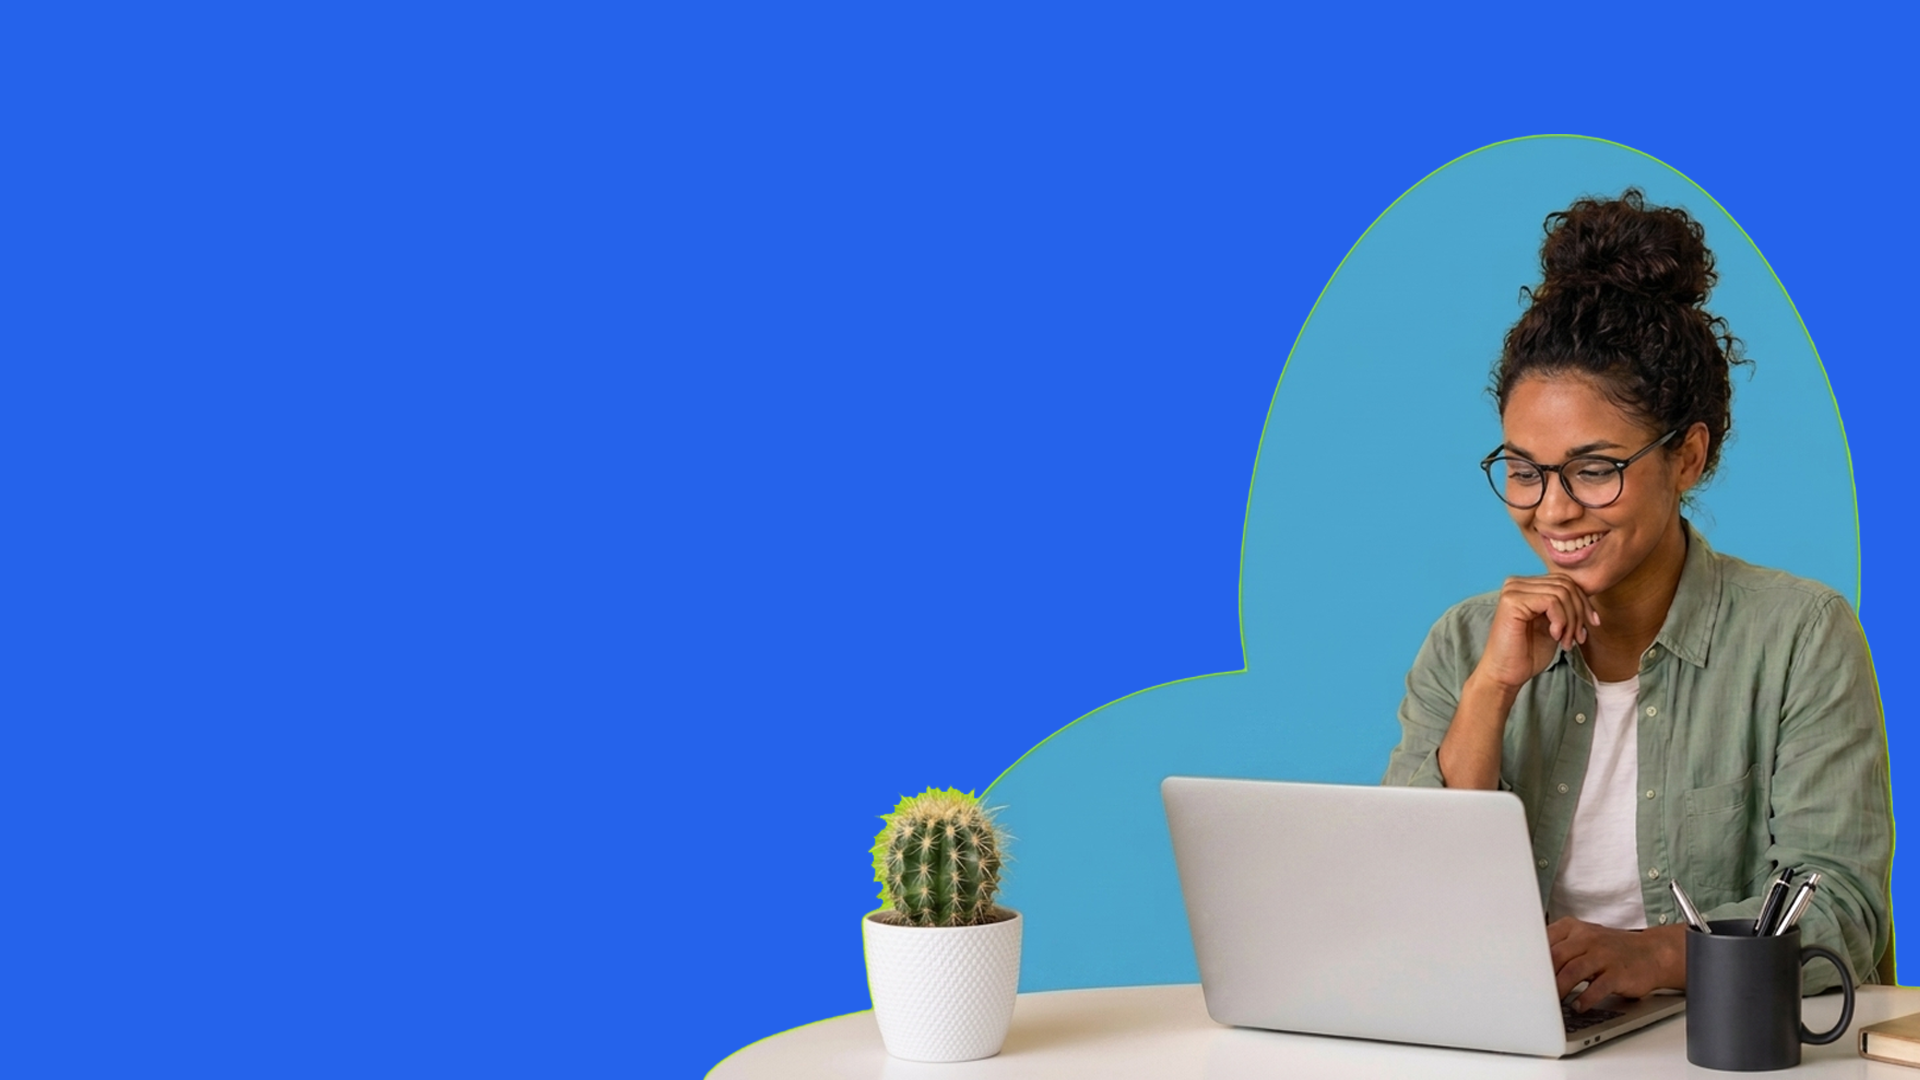
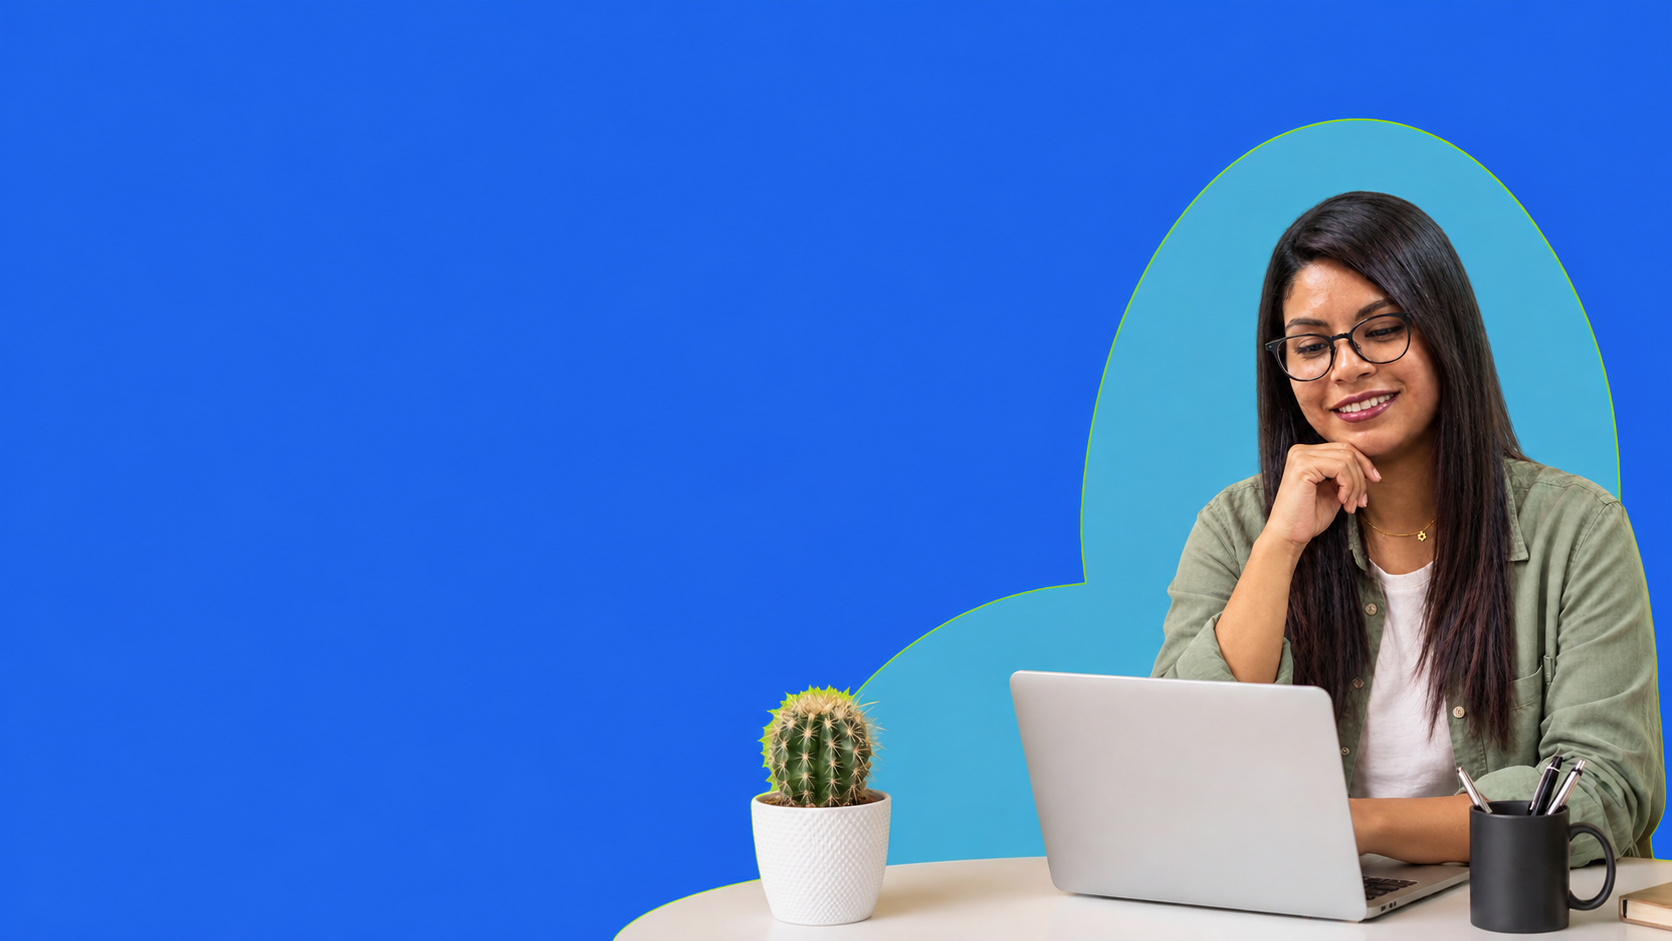
UpdatedImages

diff --git a/src/app/services/estimating-support/EstimatingSupportClient.tsx b/src/app/services/estimating-support/EstimatingSupportClient.tsx
@@ -41,16 +41,16 @@ export default function EstimatingSupportClient() {
       {/* Hero Section */}
       <section className="bg-[#1d4ed8] bg-[linear-gradient(to_right,#ffffff15_1px,transparent_1px),linear-gradient(to_bottom,#ffffff15_1px,transparent_1px)] bg-[size:4rem_4rem] pb-28 pt-12 sm:pt-16 lg:pt-20">
         <div className="max-w-7xl mx-auto px-4 sm:px-6 lg:px-8 grid grid-cols-1 lg:grid-cols-12 gap-12 items-center">
-          
+
           {/* Columna Izquierda */}
           <div className="lg:col-span-7">
             {/* Avatar */}
             <div className="relative inline-block mb-6">
               <div className="w-36 h-36 rounded-full bg-slate-100 border-4 border-white/80 overflow-hidden flex flex-col items-center justify-center shadow-lg relative">
-                <Image 
-                  src="/construct.png" 
-                  alt="Construction Estimator" 
-                  fill 
+                <Image
+                  src="/construct.png"
+                  alt="Construction Estimator"
+                  fill
                   className="object-cover"
                 />
               </div>
@@ -87,7 +87,7 @@ export default function EstimatingSupportClient() {
             <div className="bg-white rounded-2xl p-6 sm:p-8 shadow-2xl border border-slate-100 max-w-md mx-auto lg:ml-auto w-full">
               <h2 className="text-xl font-extrabold text-[#0B132B] mb-1">Schedule a 20-Min Intro Call</h2>
               <p className="text-xs text-slate-500 mb-6">Tell us about your bid volume. A founder will follow up.</p>
-              
+
               <form className="space-y-4" onSubmit={(e) => e.preventDefault()}>
                 <div>
                   <label className="text-xs font-bold text-slate-700 block mb-1">First Name</label>
@@ -110,7 +110,7 @@ export default function EstimatingSupportClient() {
                     <option value="25+">25+ bids/month</option>
                   </select>
                 </div>
-                
+
                 <button type="submit" className="w-full bg-[#84cc16] hover:bg-lime-500 text-[#0B132B] font-extrabold text-sm py-3.5 rounded-full transition-colors flex items-center justify-center gap-2 mt-2 shadow-sm">
                   Schedule a 20-Min Intro Call <ArrowRight className="w-4 h-4" strokeWidth={3} />
                 </button>
@@ -127,7 +127,7 @@ export default function EstimatingSupportClient() {
       {/* Tarjetas Flotantes */}
       <section className="max-w-7xl mx-auto px-4 sm:px-6 lg:px-8 -mt-16 relative z-20">
         <div className="grid grid-cols-1 md:grid-cols-3 gap-6">
-          
+
           <div className="bg-white rounded-2xl p-6 shadow-lg border border-slate-100 flex items-start gap-4">
             <div className="w-12 h-12 rounded-full bg-lime-100/80 text-lime-700 flex items-center justify-center flex-shrink-0">
               <Clock className="w-6 h-6" />
@@ -185,10 +185,9 @@ export default function EstimatingSupportClient() {
       </section>
 
       <section ref={testimonialRef} className="max-w-7xl mx-auto px-4 sm:px-6 lg:px-8 -mt-24 relative z-20">
-        <div 
-          className={`bg-[#070C1A] rounded-3xl shadow-2xl p-8 sm:p-12 lg:p-14 transition-all duration-700 ease-out transform ${
-            isTestimonialVisible ? "opacity-100 translate-y-0" : "opacity-0 translate-y-12"
-          }`}
+        <div
+          className={`bg-[#070C1A] rounded-3xl shadow-2xl p-8 sm:p-12 lg:p-14 transition-all duration-700 ease-out transform ${isTestimonialVisible ? "opacity-100 translate-y-0" : "opacity-0 translate-y-12"
+            }`}
         >
           <div className="flex flex-col sm:flex-row items-start gap-6 sm:gap-8">
             <span className="text-[#84cc16] text-6xl font-serif leading-none select-none flex-shrink-0">"</span>
@@ -219,8 +218,8 @@ export default function EstimatingSupportClient() {
           <div className="grid grid-cols-1 lg:grid-cols-12 gap-8 lg:gap-10 items-stretch">
             {/* Columna Izquierda - Imagen */}
             <div className="lg:col-span-5 relative w-full min-h-[420px] lg:h-full rounded-2xl overflow-hidden border-2 border-dashed border-[#84cc16]/60 bg-[#0B132B] shadow-md">
-              <Image 
-                src="/const-ej1.jpg" 
+              <Image
+                src="/const-ej1.png"
                 alt="Construction Estimator Scope"
                 fill
                 className="object-cover object-center"
@@ -229,7 +228,7 @@ export default function EstimatingSupportClient() {
 
             {/* Columna Derecha - Tarjetas */}
             <div className="lg:col-span-7 flex flex-col justify-between space-y-4">
-              
+
               <div className={`bg-white border border-slate-200/80 rounded-2xl p-6 shadow-sm hover:shadow-md hover:border-slate-300 transition-all duration-500 flex items-start gap-4 transform ${isScopeVisible ? "opacity-100 translate-y-0" : "opacity-0 translate-y-8"}`}>
                 <div className="w-11 h-11 rounded-xl bg-[#0B132B] text-white flex items-center justify-center flex-shrink-0 mt-0.5">
                   <Ruler className="w-5 h-5" />
@@ -288,11 +287,39 @@ export default function EstimatingSupportClient() {
             </h2>
           </div>
 
-          <div 
+          <div
             ref={roiRef}
             className={`transition-all duration-700 ease-out transform ${isRoiVisible ? "opacity-100 translate-y-0" : "opacity-0 translate-y-12"}`}
           >
-            <div className="w-full overflow-x-auto rounded-2xl border border-slate-200/80 shadow-sm bg-white mb-8">
+            {/* Vista Móvil (Tarjetas Apiladas) */}
+            <div className="md:hidden flex flex-col gap-4 mb-8">
+              {[
+                { factor: "Annual Salary & Overhead", us: "$75,000 – $95,000+ USD / year", vvb: "Up to 60% Savings" },
+                { factor: "Time Zone & Availability", us: "Standard local hours", vvb: "100% CST (Same Business Hours)" },
+                { factor: "Language & Communication", us: "Native English", vvb: "100% Fluent English & Spanish" },
+                { factor: "Onboarding & Risk", us: "Weeks of hiring + payroll tax", vvb: "Hand-picked, pre-vetted + Free Replacement" }
+              ].map((item, idx) => (
+                <div key={idx} className="bg-white rounded-2xl border border-slate-200/80 shadow-sm overflow-hidden flex flex-col">
+                  <div className="bg-slate-50/70 py-3 px-5 border-b border-slate-200/80">
+                    <h4 className="text-sm font-extrabold text-[#0B132B]">{item.factor}</h4>
+                  </div>
+                  <div className="flex flex-col">
+                    <div className="p-5">
+                      <span className="text-[11px] font-bold text-slate-400 uppercase tracking-wider block mb-1">U.S. In-House Estimator</span>
+                      <span className="text-sm font-medium text-slate-600">{item.us}</span>
+                    </div>
+                    <div className="bg-[#f4fce8] p-5 border-t border-[#84cc16]/30 relative">
+                      <div className="absolute top-0 left-0 w-1.5 h-full bg-[#84cc16]"></div>
+                      <span className="text-[11px] font-extrabold text-[#65a30d] uppercase tracking-wider block mb-1">Virtual Value Bridge</span>
+                      <span className={`font-extrabold text-[#0B132B] ${idx === 0 ? 'text-xl' : 'text-base'}`}>{item.vvb}</span>
+                    </div>
+                  </div>
+                </div>
+              ))}
+            </div>
+
+            {/* Vista Escritorio (Tabla) */}
+            <div className="hidden md:block w-full overflow-x-auto rounded-2xl border border-slate-200/80 shadow-sm bg-white mb-8">
               <table className="w-full text-left border-collapse min-w-[640px]">
                 <thead>
                   <tr className="border-b border-slate-200/80">
@@ -348,7 +375,7 @@ export default function EstimatingSupportClient() {
               No long-term contracts. No reason to overthink it.
             </span>
           </div>
-          <button 
+          <button
             onClick={() => window.scrollTo({ top: 0, behavior: 'smooth' })}
             className="bg-[#0B132B] hover:bg-slate-800 text-white text-xs sm:text-sm font-bold px-7 py-3.5 rounded-full transition-colors flex-shrink-0 shadow-sm cursor-pointer"
           >
@@ -358,11 +385,10 @@ export default function EstimatingSupportClient() {
       </section>
 
       <section className="w-full bg-[#070C1A] py-20 sm:py-28 text-center">
-        <div 
+        <div
           ref={ctaRef}
-          className={`max-w-3xl mx-auto px-4 sm:px-6 lg:px-8 flex flex-col items-center transition-all duration-700 ease-out transform ${
-            isCtaVisible ? "opacity-100 translate-y-0" : "opacity-0 translate-y-12"
-          }`}
+          className={`max-w-3xl mx-auto px-4 sm:px-6 lg:px-8 flex flex-col items-center transition-all duration-700 ease-out transform ${isCtaVisible ? "opacity-100 translate-y-0" : "opacity-0 translate-y-12"
+            }`}
         >
           <span className="text-3xl sm:text-4xl lg:text-5xl font-extrabold text-white tracking-tight leading-tight block mb-2">
             Stop Turning Down Bids Due to
@@ -373,7 +399,7 @@ export default function EstimatingSupportClient() {
           <p className="text-slate-300 text-sm sm:text-base leading-relaxed max-w-xl mt-6 mb-10 font-normal">
             Every Virtual Value Bridge specialist is hand-picked and onboarded directly into your SOPs. No seat-fillers, no long-term commitments, and direct access to our founders whenever you need it.
           </p>
-          <button 
+          <button
             onClick={() => window.open('https://calendly.com/allan-escalante3/30min', '_blank')}
             className="bg-[#84cc16] hover:bg-lime-500 text-[#0B132B] font-extrabold text-xs sm:text-sm px-8 py-4 rounded-full transition-all duration-200 inline-flex items-center gap-2.5 shadow-lg hover:scale-[1.02] cursor-pointer"
           >

diff --git a/src/components/sections/SpecializedTracks.tsx b/src/components/sections/SpecializedTracks.tsx
@@ -1,6 +1,7 @@
 "use client";
 
 import Image from "next/image";
+import Link from "next/link";
 import { Check, ArrowRight } from "lucide-react";
 import { useEffect, useRef, useState } from "react";
 
@@ -55,8 +56,9 @@ export default function SpecializedTracks() {
             className={`transition-all duration-700 ease-out transform ${isVisible ? "opacity-100 translate-y-0" : "opacity-0 translate-y-8"
               }`}
           >
-            <div
-              className="group block h-full bg-white rounded-3xl border border-slate-100 shadow-sm p-6 sm:p-8 transition-all duration-300 hover:-translate-y-1.5 hover:shadow-xl hover:border-blue-100 cursor-default"
+            <Link
+              href="/services/estimating-support"
+              className="group block h-full bg-white rounded-3xl border border-slate-100 shadow-sm p-6 sm:p-8 transition-all duration-300 hover:-translate-y-1.5 hover:shadow-xl hover:border-blue-100"
             >
               <div className="flex flex-col sm:flex-row items-center sm:items-start gap-6 h-full">
                 {/* Columna Izquierda */}
@@ -100,7 +102,7 @@ export default function SpecializedTracks() {
                   </div>
                 </div>
               </div>
-            </div>
+            </Link>
           </div>
 
           {/* Tarjeta 2 - Property Management */}
